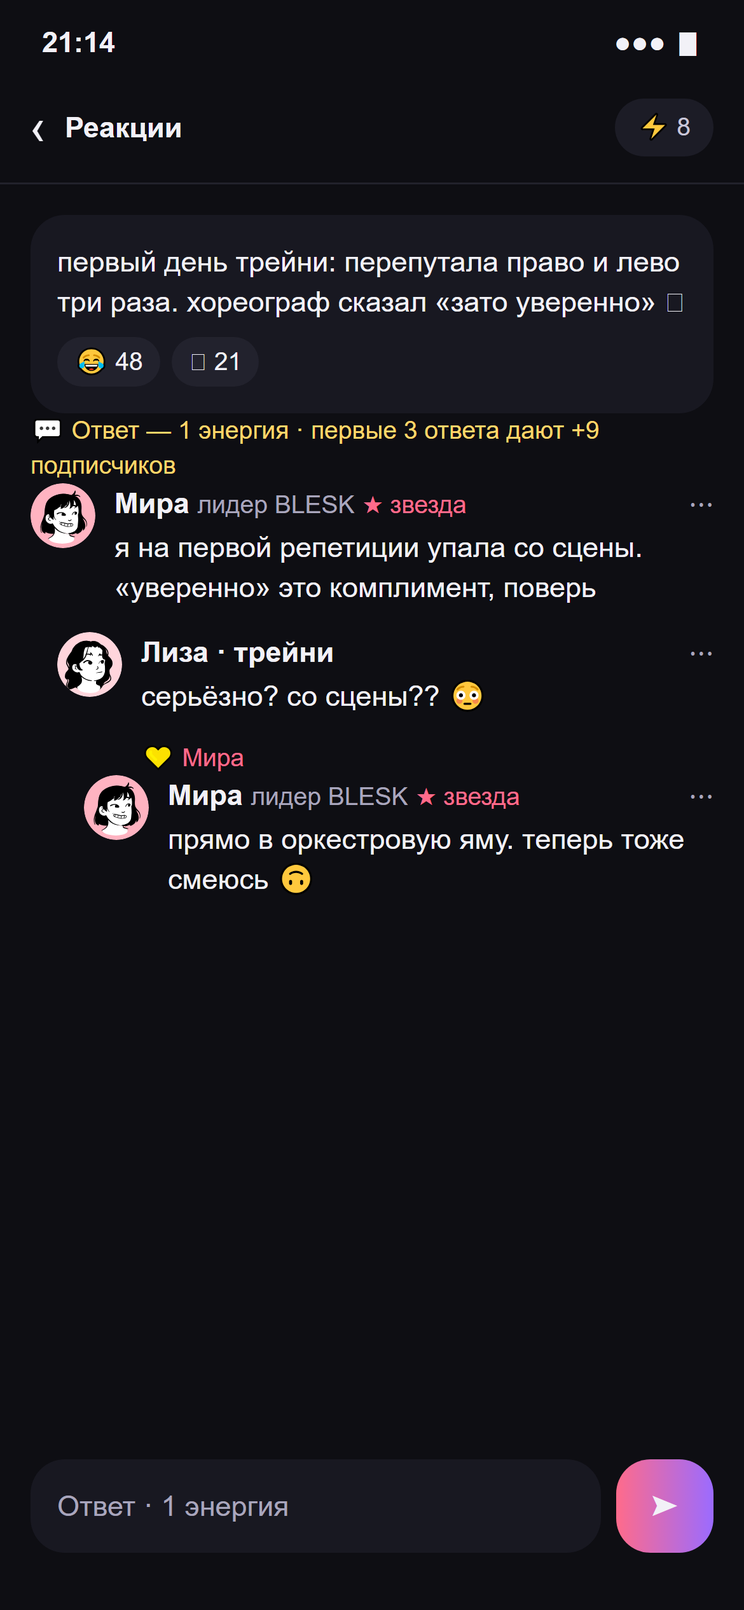
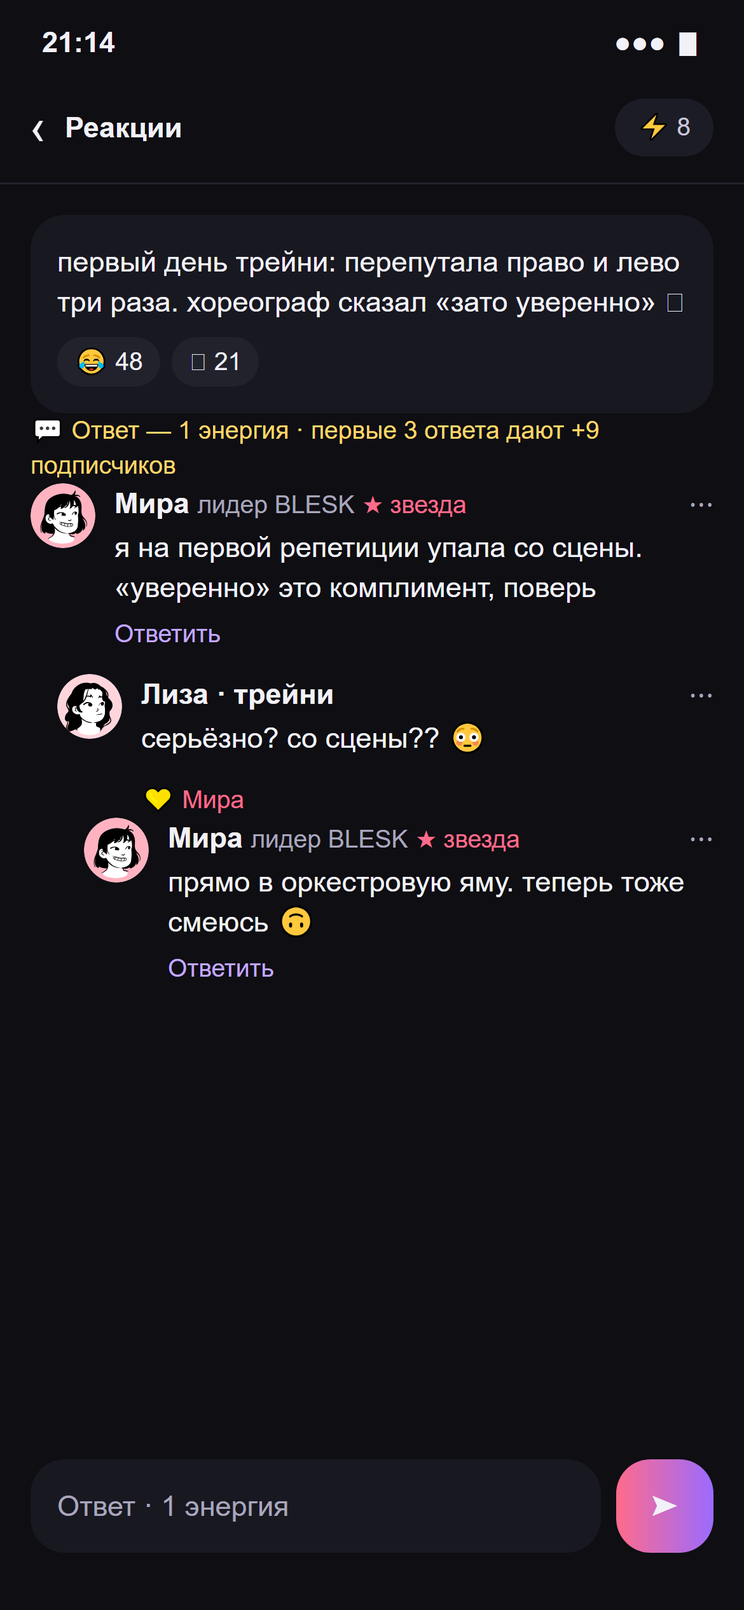
feat: allow continuing comment threads without depth limit #87

Changed region(s): [[0.0615, 0.3744, 0.9231, 0.624]]

diff --git a/frontend/src/screens/turn.tsx b/frontend/src/screens/turn.tsx
@@ -292,7 +292,7 @@ function Thread() {
         {ordered.map(comment => <div key={comment.id} style={{ marginLeft: Math.min(comment.depth ?? 0, 2) * 14 }}>
           <Comment seed={comment.avatar} name={comment.author} handle={comment.role ?? comment.handle} text={comment.hidden ? 'Комментарий скрыт' : comment.text} star={comment.star} me={comment.me} onMore={comment.me ? undefined : () => nav.push('06-1_report', { id: comment.id })} />
           {!!comment.reactions?.length && <div className="small" style={{ margin: '-6px 0 12px 44px' }}>{comment.reactions.map(reaction => <span key={`${reaction.authorId}:${reaction.emoji}`} title={reaction.author} className="react">{reaction.emoji} {reaction.author}</span>)}</div>}
-          {canReply && comment.star && !comment.hidden && (comment.depth ?? 0) + 2 <= 2 && <button className="small" disabled={sending} onClick={() => edit({ commentId: comment.id })} style={{ display: 'block', margin: '-8px 0 12px 44px', background: 'none', border: 'none', color: draft.commentId === comment.id ? 'var(--accent)' : 'var(--lilac)' }}>{draft.commentId === comment.id ? 'Отвечаешь этому комментарию' : 'Ответить'}</button>}
+          {canReply && comment.star && !comment.hidden && <button className="small" disabled={sending} onClick={() => edit({ commentId: comment.id })} style={{ display: 'block', margin: '-8px 0 12px 44px', background: 'none', border: 'none', color: draft.commentId === comment.id ? 'var(--accent)' : 'var(--lilac)' }}>{draft.commentId === comment.id ? 'Отвечаешь этому комментарию' : 'Ответить'}</button>}
         </div>)}
         {sending && <div className="card" role="status" aria-live="polite"><div className="small muted">{target?.author ?? 'Звезда'} готовит ответ…</div><div className="live-current" aria-hidden="true"><span /></div>{preview && <><p>{preview}</p><div className="small muted">Ответ ещё не опубликован</div></>}</div>}
         {target && <div className="small muted" style={{ marginBottom: 8 }}>Отвечаешь: {target.author}</div>}

diff --git a/frontend/src/api/client.ts b/frontend/src/api/client.ts
@@ -252,7 +252,7 @@ export const api = {
       }
       if (player.postsLeft < 1) throw new ApiError(409, 'POST', '/posts/:id/replies')
       const target = post.comments.find(comment => comment.id === commentId && comment.star && !comment.hidden)
-      if (!target || (target.depth ?? 0) + 2 > 2) throw new ApiError(409, 'POST', '/posts/:id/replies')
+      if (!target) throw new ApiError(409, 'POST', '/posts/:id/replies')
       update({ status: 'generating', requestId })
       await later(undefined, 650)
       if (signal?.aborted) throw new DOMException('Aborted', 'AbortError')

diff --git a/backend/tests/Reki.Tests/Api/PostsControllerTests.cs b/backend/tests/Reki.Tests/Api/PostsControllerTests.cs
@@ -539,9 +539,9 @@ public sealed class PostsControllerTests(ApiFactory factory) : GameApiTestBase(f
 
         // Act
         var first = await ReplyAsync(telegramUserId, postId, commentId, "thread-key-1", "первый ответ");
-        var second = await ReplyAsync(telegramUserId, postId, commentId, "thread-key-2", "второй ответ");
-        var third = await ReplyAsync(telegramUserId, postId, commentId, "thread-key-3", "третий ответ");
-        var fourth = await ReplyAsync(telegramUserId, postId, commentId, "thread-key-4", "четвёртый ответ");
+        var second = await ReplyAsync(telegramUserId, postId, (first.Post ?? throw new InvalidOperationException("Missing reply post.")).Comments.Single(comment => comment.Depth == 2).Id, "thread-key-2", "второй ответ");
+        var third = await ReplyAsync(telegramUserId, postId, (second.Post ?? throw new InvalidOperationException("Missing reply post.")).Comments.Single(comment => comment.Depth == 4).Id, "thread-key-3", "третий ответ");
+        var fourth = await ReplyAsync(telegramUserId, postId, (third.Post ?? throw new InvalidOperationException("Missing reply post.")).Comments.Single(comment => comment.Depth == 6).Id, "thread-key-4", "четвёртый ответ");
 
         // Assert
         await Assert.That(first.Subscribers).IsEqualTo(beforeWorld["Player"]["Subscribers"].ToInt64() + 9);
@@ -549,6 +549,7 @@ public sealed class PostsControllerTests(ApiFactory factory) : GameApiTestBase(f
         await Assert.That(third.Subscribers).IsEqualTo(second.Subscribers + 9);
         await Assert.That(fourth.Subscribers).IsEqualTo(third.Subscribers);
         await Assert.That(fourth.EnergyLeft).IsEqualTo(first.EnergyLeft - 3);
+        await Assert.That((fourth.Post ?? throw new InvalidOperationException("Missing reply post.")).Comments.Select(comment => comment.Depth)).IsEquivalentTo(Enumerable.Range(0, 9));
         var stored = await GetStoredPostAsync(postId);
         await Assert.That(stored["Comments"].AsBsonArray.Count).IsEqualTo(9);
         await Assert.That(stored["Version"].AsInt32).IsEqualTo(4);
@@ -1030,10 +1031,8 @@ public sealed class PostsControllerTests(ApiFactory factory) : GameApiTestBase(f
     [Arguments("missing-world")]
     [Arguments("player-target")]
     [Arguments("unknown-star")]
-    [Arguments("depth")]
     [Arguments("energy")]
     [Arguments("energy-over")]
-    [Arguments("depth-adjacent")]
     public async Task AddReply_InvalidInput_RejectsBeforeGenerationAsync(string scenario)
     {
         // Arrange
@@ -1047,21 +1046,6 @@ public sealed class PostsControllerTests(ApiFactory factory) : GameApiTestBase(f
                 ? $"Player_{(await GetStoredPlayerAsync(user))["_id"].AsString}"
                 : "Star_unknown-star";
             await Database.GetCollection<BsonDocument>("posts").UpdateOneAsync(new BsonDocument("_id", postId), new BsonDocument("$set", new BsonDocument("Comments.0.AuthorId", author)));
-        }
-
-        if (scenario == "depth")
-        {
-            var reply = await ReplyAsync(user, postId, targetId, "depth-seed", "первый ответ");
-            targetId = (reply.Post ?? throw new InvalidOperationException("Missing reply post.")).Comments.Single(comment => comment.Depth == 2).Id;
-        }
-
-        if (scenario == "depth-adjacent")
-        {
-            var posts = Database.GetCollection<GamePost>("posts");
-            var post = await posts.Find(item => item.Id == PostId.From(postId)).SingleAsync();
-            var nested = post.Comments[0] with { Id = CommentId.New(), ParentCommentId = post.Comments[0].Id };
-            await posts.ReplaceOneAsync(item => item.Id == post.Id, post with { Comments = [.. post.Comments, nested] });
-            targetId = nested.Id.Value;
         }
 
         if (scenario is "energy" or "energy-over")

diff --git a/backend/src/Reki.Application/Posts/AddReplyStreamHandler.cs b/backend/src/Reki.Application/Posts/AddReplyStreamHandler.cs
@@ -147,17 +147,12 @@ public sealed partial class AddReplyStreamHandler(
         }
     }
 
-    private (GameComment Comment, WorldStar Star) ValidateTarget(GamePost post, World world, CommentId targetId)
+    private static (GameComment Comment, WorldStar Star) ValidateTarget(GamePost post, World world, CommentId targetId)
     {
         var target = post.Comments.FirstOrDefault(comment => comment.Id == targetId && !comment.Hidden)
                      ?? throw new ResourceNotFoundException("Comment not found.");
         var star = world.FindStar(target.AuthorId)
                    ?? throw new RequestConflictException("The target is not a star of this world.");
-
-        if (post.GetBranch(targetId).Count + 1 > balance.Value.Thread.BranchDepth)
-        {
-            throw new RequestConflictException("The maximum branch depth has been reached.");
-        }
 
         return (target, star);
     }

diff --git a/docs/design/src/build_journey.py b/docs/design/src/build_journey.py
@@ -316,6 +316,8 @@ exec(open(os.path.join(D, 'journey_v15.py'), encoding='utf-8').read())  # #119
 
 exec(open(os.path.join(D, 'journey_v16.py'), encoding='utf-8').read())  # #87
 
+exec(open(os.path.join(D, 'journey_v17.py'), encoding='utf-8').read())  # #87
+
 CH = os.environ.get('CHROME_BIN') or shutil.which('google-chrome') or shutil.which('chrome')
 if not CH and os.name == 'nt':
     CH = os.path.join(os.environ.get('PROGRAMFILES', 'C:\\Program Files'), 'Google', 'Chrome', 'Application', 'chrome.exe')

diff --git a/docs/design/src/journey_v17.py b/docs/design/src/journey_v17.py
@@ -1,0 +1,3 @@
+# #87: продолжение треда без ограничения глубины, 12.10.2026.
+reply_action = '<div class="small" style="margin:-8px 0 12px 44px;color:#C3A8FF">Ответить</div>'
+S['02-6_thread'] = S['02-6_thread'].replace(root_comment, root_comment + reply_action).replace(ai_reply, ai_reply + reply_action)

diff --git a/backend/src/Reki.Api/Bootstrapping/GameBalanceOptionsFactory.cs b/backend/src/Reki.Api/Bootstrapping/GameBalanceOptionsFactory.cs
@@ -117,7 +117,6 @@ internal sealed class GameBalanceOptionsFactory(
             new ThreadBalance(
                 thread.GetValue<int>("bonus_replies"),
                 thread.GetValue<int>("subscriber_bonus"),
-                thread.GetValue<int>("branch_depth"),
                 commentCost),
             worlds,
             postCost);

diff --git a/backend/src/Reki.Application/Common/ThreadBalance.cs b/backend/src/Reki.Application/Common/ThreadBalance.cs
@@ -1,3 +1,3 @@
 namespace Reki.Application.Common;
 
-public sealed record ThreadBalance(int BonusReplies, int SubscriberBonus, int BranchDepth, int EnergyCost = 1);
+public sealed record ThreadBalance(int BonusReplies, int SubscriberBonus, int EnergyCost = 1);

diff --git a/docs/backend-spec.md b/docs/backend-spec.md
@@ -33,14 +33,14 @@
 3. Полный ответ собирается из сохранённых частей. Невалидный или небезопасный ответ переводит публикацию в `failed` без повторной генерации; пост не тратится. У подтверждённой ошибки части ответа очищаются сразу, короткая запись удаляется TTL-индексом через сутки. Незавершённый `pending` тоже имеет TTL на случай остановки процесса; при успешной генерации TTL снимается.
 4. Успешная генерация переводит публикацию в `ready_for_moderation`. Клиент отправляет `POST /posts/publications/:id/moderation`; код считает итог по `balance.json`, а сохранение поста, списание доступного поста, запись нити и итогового статуса выполняются одной короткой MongoDB-транзакцией. LLM внутри транзакции не вызывается.
 5. Модерация отдаёт JSON-массив `LiveEvent[]` в строчном wire-контракте `views` → `react` → `comment` → `typing` → `result`. Фронтенд последовательно показывает элементы массива с минимальными паузами для анимации; бэкенд отдаёт весь массив сразу. После обрыва клиент делает `GET /posts/publications/:id`: `completed` содержит результат, `failed` возвращает в редактор, `pending` или `ready_for_moderation` предлагает вручную проверить статус; автоматического повторного постинга нет.
-6. Ответ в треде — один `POST /posts/:id/replies?worldId=…` с `{ requestId, commentId, text }` и SSE через Mediator `IStreamRequest`. Проверяются владелец мира, принадлежность поста миру, видимый целевой комментарий звезды, глубина и текст. Сохранённый `RequestId` возвращает актуальный пост без LLM и списания; другая цель/текст — 409. После проверки энергии модель вызывается вне транзакции. Проверенный промежуточный текст передаётся как `generating`, но ещё не опубликован. После проверки полного ответа сервер перечитывает пост, игрока и мир и заново проверяет энергию и бонус. Одна MongoDB-транзакция проверяет отсутствие ключа и ожидаемые версии трёх документов, сохраняет комментарии/реакции, списывает `energy.comment_cost` и начисляет бонус за первые `thread.bonus_replies` сохранённых ответов игрока. `completed` возвращает актуальный пост, остаток энергии и подписчиков. Ошибка после начала SSE — `failed` с безопасным кодом; до начала SSE используются ProblemDetails (400/404/409/422). До коммита обрыв отменяет сохранение, после него результат доступен через GET поста. Повтор использует тот же `requestId`. `ReplyLiveEvent.Status` типизирован enum `ReplyStatus` (Generating / Completed / Failed), все поля события заданы в primary constructor. JSON-значения статусов остаются `generating` / `completed` / `failed`.
+6. Ответ в треде — один `POST /posts/:id/replies?worldId=…` с `{ requestId, commentId, text }` и SSE через Mediator `IStreamRequest`. Проверяются владелец мира, принадлежность поста миру, видимый целевой комментарий звезды и текст. Сохранённый `RequestId` возвращает актуальный пост без LLM и списания; другая цель/текст — 409. После проверки энергии модель вызывается вне транзакции. Проверенный промежуточный текст передаётся как `generating`, но ещё не опубликован. После проверки полного ответа сервер перечитывает пост, игрока и мир и заново проверяет энергию и бонус. Одна MongoDB-транзакция проверяет отсутствие ключа и ожидаемые версии трёх документов, сохраняет комментарии/реакции, списывает `energy.comment_cost` и начисляет бонус за первые `thread.bonus_replies` сохранённых ответов игрока. `completed` возвращает актуальный пост, остаток энергии и подписчиков. Ошибка после начала SSE — `failed` с безопасным кодом; до начала SSE используются ProblemDetails (400/404/409/422). До коммита обрыв отменяет сохранение, после него результат доступен через GET поста. Повтор использует тот же `requestId`. `ReplyLiveEvent.Status` типизирован enum `ReplyStatus` (Generating / Completed / Failed), все поля события заданы в primary constructor. JSON-значения статусов остаются `generating` / `completed` / `failed`.
 
 ### Тред: авторы, AI-контекст и энергия
 
 - `AuthorKind`: Player / Star. `AuthorId` — Vogen над строкой `Player_ID` / `Star_ID`; Mongo хранит ту же строку через сгенерированный BSON serializer, как для остальных ID. Автор разрешается по полному `AuthorId` из владельца мира или его звёзд; исходный ID и тип берутся из найденного автора, отдельных свойств `Kind` / `Id` у `AuthorId` нет. Разделитель при валидации — первый `_`, остальные `_` принадлежат ID. Валидация принимает только точные префиксы `Player_` / `Star_` и непустой ID. Сгенерированные Vogen `Parse` / `TryParse` реализуют `IParsable<AuthorId>` и используют ту же валидацию. `PlayerId.ToAuthorId()` и `StarId.ToAuthorId()` создают тип явно через `AuthorId.Create`.
 - `GamePost`: обязательный `WorldId`, `AuthorId`, `Version` и единственный массив `Comments`. Доступ определяется владельцем мира, авторство проверяется отдельно. `ThreadReplies`, `ThreadReply` и `CommentOperation` отсутствуют.
 - `GameComment`: `Id`, nullable `ParentCommentId`, nullable `RequestId`, `AuthorId`, `Text`, `Hidden`, `Reactions`. `CommentReaction`: `AuthorId`, `Emoji`. Имена, аватары, роли, `Star`, `Me`, глубина, расход энергии и сумма бонуса в комментариях не хранятся. API разрешает автора из `World.Player` / `World.Stars`, вычисляет `Me` относительно текущего игрока и глубину по цепочке родителей.
-- Корень — глубина 0. Игрок отвечает выбранному комментарию (1), выбранная звезда отвечает игроку (2). Реакция ставится на комментарий игрока. Дополнительная реплика другой звезды — новый корень. Сервер проверяет `thread.branch_depth`, принадлежность обеих звёзд миру и 14+.
+- Корень — глубина 0. Игрок отвечает выбранному комментарию звезды, выбранная звезда отвечает игроку; каждый ответ увеличивает глубину на 1. Разговор можно продолжать без ограничения глубины. Реакция ставится на комментарий игрока. Дополнительная реплика другой звезды — новый корень. Сервер проверяет принадлежность обеих звёзд миру и 14+.
 - Контекст LLM: пост, цепочка выбранного треда, ответ игрока, личности звёзд и правила мира. Единственный tool `thread_reply`: `star_id`, `text`, `tone`, `emoji`, `additional_star_id`, `additional_text`, `additional_tone`; необязательные значения — пустые строки. Без оценок поста, hook и памяти лички. Модель не управляет энергией или бонусом.
 - `PlayerProfile.EnergyUsed` заменяет `PostsUsed`. Пост стоит `energy.post_cost = 1`, ответ — `energy.comment_cost = 1`; AI входит в эту стоимость. Общий запас всех миров сохраняет прежние лимиты и бонусы из `posts.*`. Счётчик сбрасывается в 09:00 МСК. Рост и опыт поста учитывают `EnergyUsed`, поэтому комментарии сдвигают дневной бюджет прогрессии. Wire-поля `/me` `postsLeft` / `postsCap` сохраняют имена и означают остаток/лимит энергии.
 - Миграция 2.2.0 переносит авторов, связи родителей, ключи и старые реакции из `ThreadReplies`, удаляет заменённые поля, переименовывает счётчик без оплаты старых комментариев, заполняет массивы/версии, обновляет индекс `WorldId, CreatedAtUtc`. Встроенные `Publication.Result.Post` мигрируются тоже. Неопределимые/неоднозначные авторы, циклы, потерянные родители и дубли ключей останавливают миграцию для явного разбора исходных данных; runtime-исправлений нет. Она сохраняет `AuthorId` строкой, принимает исторические поля, прежний вложенный `{ Kind, Id }` и готовые строки, проверяет принадлежность миру и допускает повторный запуск. Для строкового рефакторинга изменена сама 2.2.0, новая версия не вводится.

diff --git a/docs/game-flow.md b/docs/game-flow.md
@@ -59,7 +59,9 @@
 3. **Итог одной карточкой:** ± подписчики, фраза, за что (смелость, юмор, в тему, ×1,3), награды, лучший комментарий, одна главная кнопка.
 4. **Провал:** небольшой минус, смешная подпись, навык всё равно растёт, серия дней не сгорает. Количество провалов подряд не ограничено. Частота зависит от мира (раздел «Миры»). Пост чуть ниже порога залёта показывает **«Пост почти залетел: не хватило 12 репостов»**: это подсказка, а не провал.
 5. **Залёт** (пост в Реках): шанс (3% + 6% × качество) × множитель мира, без гарантий по числу постов или заходов, прирост ×3. Хорошие посты залетают чаще.
-6. **Тред:** успешный ответ игрока стоит 1 энергию (`energy.comment_cost`) из общего запаса всех миров. Первый, второй и третий сохранённый ответ под постом дают +9 подписчиков, остальные — 0. Игрок выбирает комментарий звезды кликом. Корень имеет глубину 0, ответ игрока — 1, встречная AI-реплика выбранной звезды — 2; на этой глубине ветка завершается. Необязательная реакция принадлежит ответу игрока; дополнительный комментарий другой звезды начинает новую корневую ветку. Генерация идёт по SSE, промежуточный текст ещё не опубликован. Комментарий игрока, AI-реплики, реакции, энергия и бонус сохраняются вместе. Ошибка или отклонение ничего не публикует и не списывает. Повтор сохранённого `requestId` возвращает актуальный пост без AI, списания и нового бонуса; другая цель или текст под тем же ключом — конфликт.
+Решено 12.10.2026: снять ограничение глубины треда, чтобы игрок мог продолжать разговор с AI-звездой. Каждый успешный ответ по-прежнему стоит 1 энергию.
+
+6. **Тред:** успешный ответ игрока стоит 1 энергию (`energy.comment_cost`) из общего запаса всех миров. Первый, второй и третий сохранённый ответ под постом дают +9 подписчиков, остальные — 0. Игрок выбирает комментарий звезды кликом. Корень имеет глубину 0; каждый ответ увеличивает глубину на 1. Игрок может продолжать разговор, отвечая на любую видимую реплику звезды; ограничения глубины нет. Необязательная реакция принадлежит ответу игрока; дополнительный комментарий другой звезды начинает новую корневую ветку. Генерация идёт по SSE, промежуточный текст ещё не опубликован. Комментарий игрока, AI-реплики, реакции, энергия и бонус сохраняются вместе. Ошибка или отклонение ничего не публикует и не списывает. Повтор сохранённого `requestId` возвращает актуальный пост без AI, списания и нового бонуса; другая цель или текст под тем же ключом — конфликт.
 7. **Нить.** На постах 1–9 нить закрывается через 1–3 хода (звезда ответит через пару постов, тема для следующего поста, близкая цель). Нить «на завтра» только у последнего поста дня. Открыта одна нить, максимум две.
 
 **Решено 06.10.2026:** публикация проходит два запроса: потоковая генерация со статусом `pending` заканчивается `ready_for_moderation`, затем отдельный запрос собирает ответ, проверяет его и отдаёт живую реакцию с итогом. Доступный пост списывается только вместе с успешным сохранением результата. Небезопасный ответ модели — подтверждённая ошибка без перегенерации и списания; текст остаётся в редакторе. Если соединение оборвалось, клиент один раз запрашивает сохранённый статус по тому же идентификатору публикации: завершённый итог показывает сразу, подтверждённая ошибка возвращает в редактор, неопределённое состояние предлагает вручную проверить снова. Автоматического повторного постинга и бесконечного ожидания нет.

diff --git a/docs/screens/README.md b/docs/screens/README.md
@@ -25,7 +25,7 @@
 | [02-3_result](02-3_result.png) | Итог поста одной карточкой: большое число, фраза, чипы «за что», награды ленточками, лучший комментарий, одна главная кнопка |
 | [02-4_flop](02-4_flop.png) | Провал: смешная подпись, опыт засчитан, серия не сгорает |
 | [02-5_viral](02-5_viral.png) | Залёт: та же карточка итога в праздничной теме, главная кнопка «Поделиться» |
-| [02-6_thread](02-6_thread.png) | Тред: ответ за 1 энергию, первые 3 дают +9 подписчиков; корень → игрок → AI-звезда, реакции на комментариях; SSE-ожидание и повтор после обрыва |
+| [02-6_thread](02-6_thread.png) | Тред: ответ за 1 энергию, первые 3 дают +9 подписчиков; корень → игрок → AI-звезда → продолжение без ограничения глубины, реакции на комментариях; SSE-ожидание и повтор после обрыва |
 | [02-6b_thread_pending](02-6b_thread_pending.png) | Ожидание AI-ответа: циклическая анимация без процента; промежуточный текст не опубликован и энергия ещё не списана |
 | [02-7_share](02-7_share.png) | «Отправить в чат»: окно Telegram со списком чатов игрока (мы его не видим) или в сторис; в карточке личная ссылка |
 
